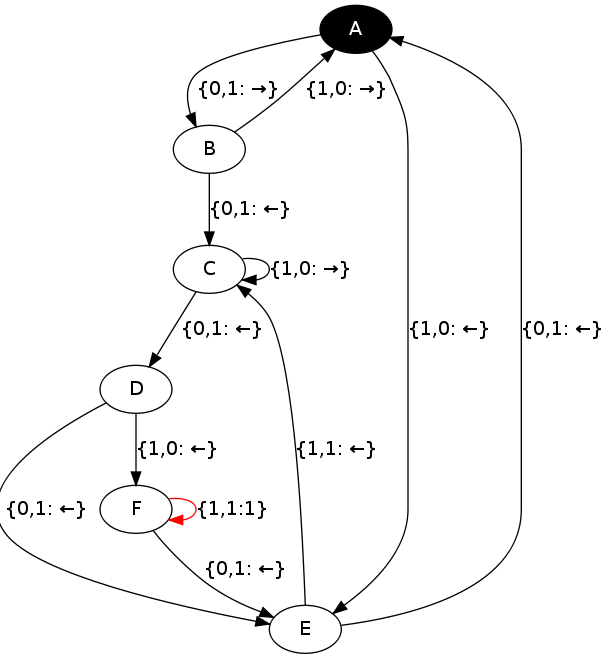
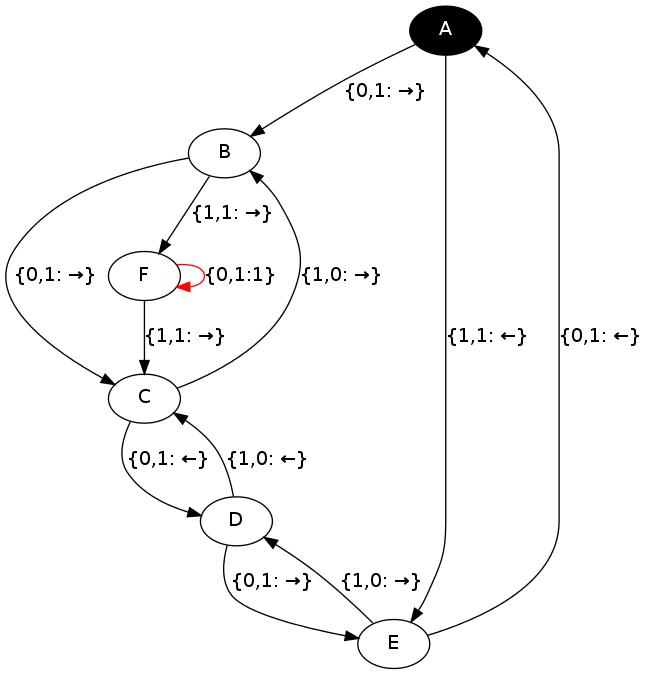
Update best-known BB6 solution
Was ≈4.640 × 10^1439 "1"s in ≈2.584 × 10^2879 steps.
From
https://en.wikipedia.org/w/index.php?title=Busy_beaver&diff=360742221&oldid=360740844

Now ≈3.515 × 10^18267 "1"s in ≈7.412 × 10^36534 steps.
As of https://en.wikipedia.org/w/index.php?title=Busy_beaver&oldid=699787519

diff --git a/busybeaver/sim6.c b/busybeaver/sim6.c
@@ -108,22 +108,22 @@ main( int argc, char** argv )
     for ( steps1 = 0; !done; steps1++ ) {
         if ( tape->value ) {
             switch ( state ) {
-            case A: update( A, 1, LEFT ); break;
-            case B: update( B, 1, RIGHT ); break;
-            case C: update( D, 1, RIGHT ); break;
-            case D: update( E, 0, RIGHT ); break;
-            case E: update( C, 1, RIGHT ); break;
-            case F: update( H, 1, LEFT ); done = 1; break;
+            case A: update( E, 1, LEFT ); break;
+            case B: update( F, 1, RIGHT ); break;
+            case C: update( B, 0, RIGHT ); break;
+            case D: update( C, 0, LEFT ); break;
+            case E: update( D, 0, RIGHT ); break;
+            case F: update( C, 1, RIGHT ); break;
             }
         }
         else {
             switch ( state ) {
-            case A: update( B, 1, LEFT ); break;
+            case A: update( B, 1, RIGHT ); break;
             case B: update( C, 1, RIGHT ); break;
-            case C: update( F, 0, RIGHT ); break;
-            case D: update( A, 1, LEFT ); break;
-            case E: update( A, 0, LEFT ); break;
-            case F: update( E, 1, LEFT ); break;
+            case C: update( D, 1, LEFT ); break;
+            case D: update( E, 1, RIGHT ); break;
+            case E: update( A, 1, LEFT ); break;
+            case F: update( F, 1, LEFT ); done = 1; break;
             }
         }
         if ( ( steps1 & mask ) == mask )
